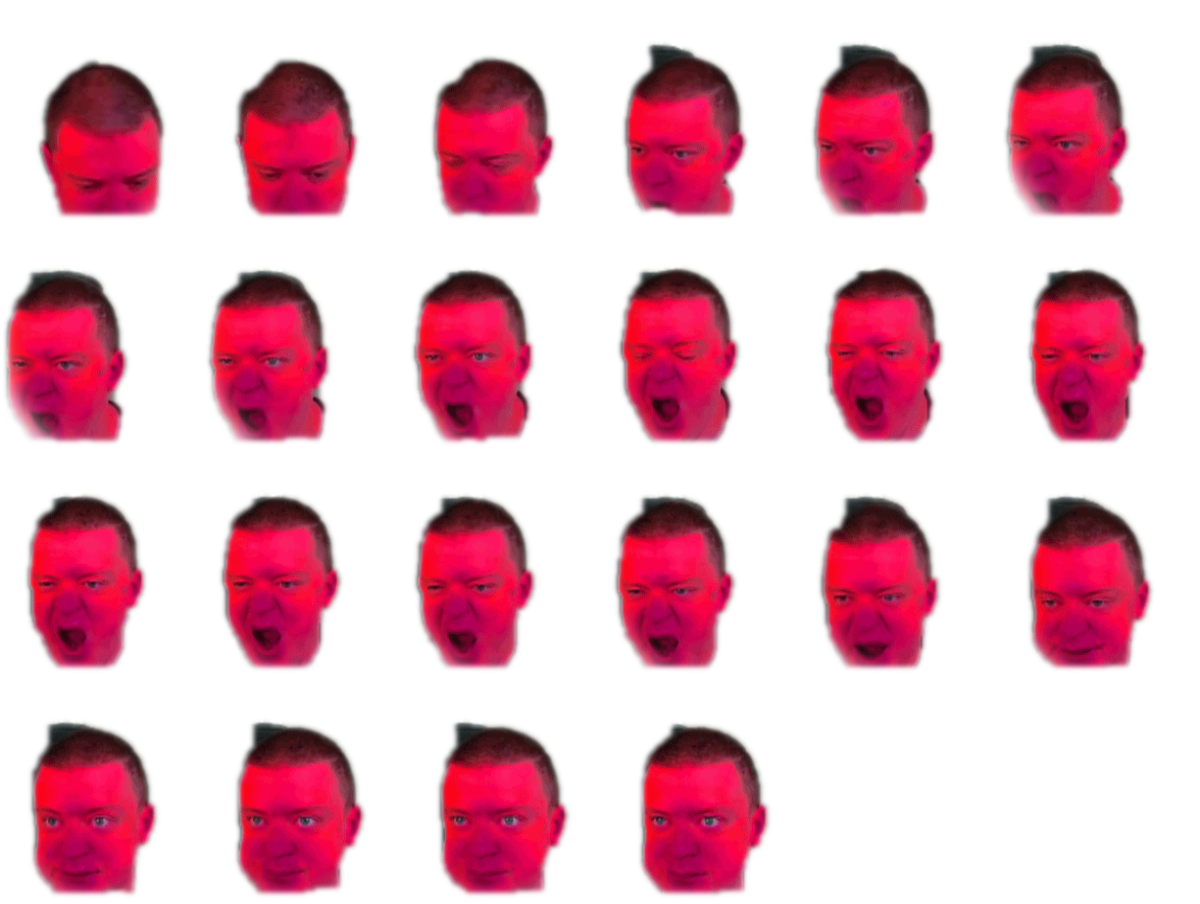
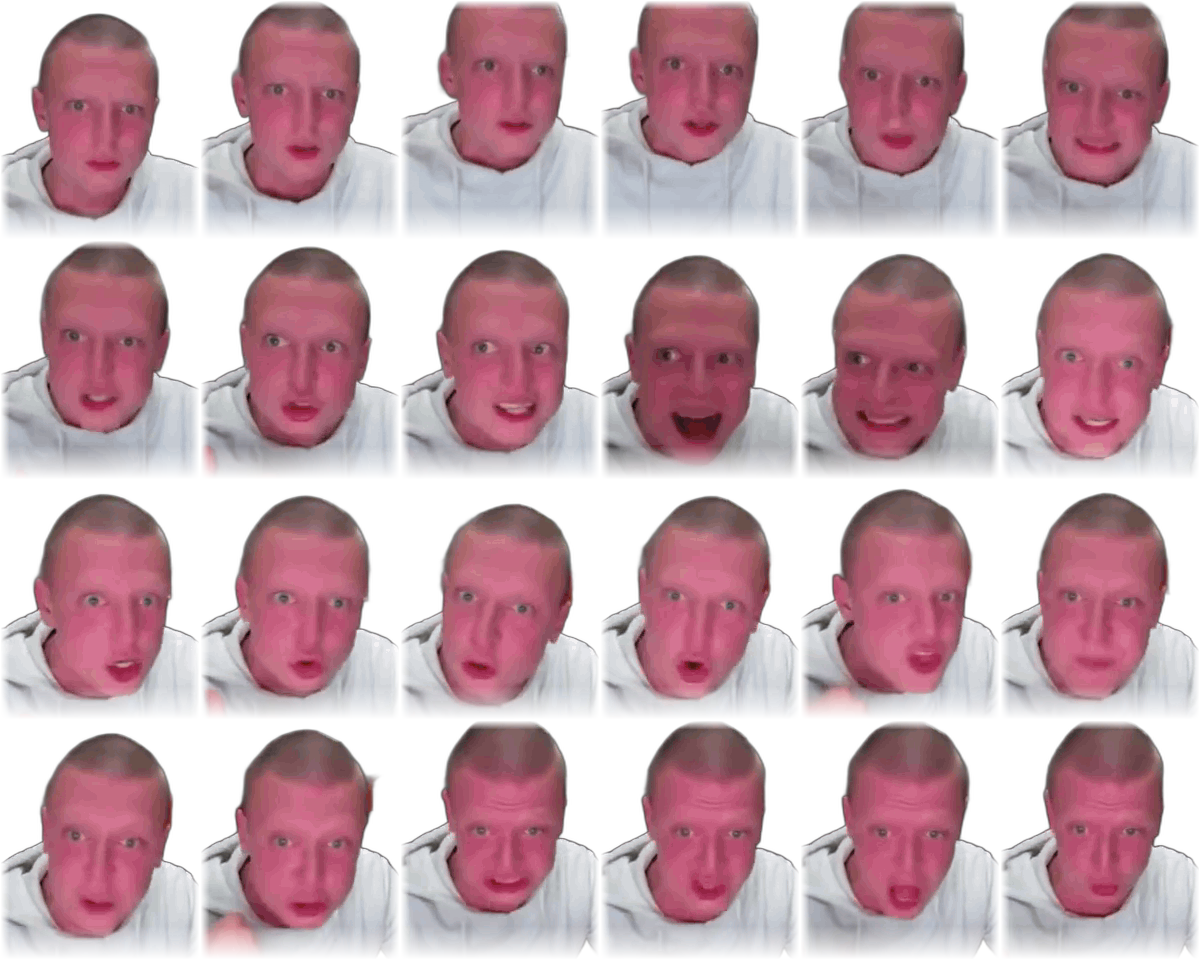
chekushka: красная рожа Меллстроя из нарезки + баланс 13–18

diff --git a/chekushka/levels.js b/chekushka/levels.js
@@ -144,4 +144,79 @@ const LEVELS = [
     hazards: [],
     fans: [{ x: 288, y: 706, r: 72, dir: { x: 0, y: -13.6 } }],
   },
+  {
+    name: 'Пивной поворот',
+    hint: 'Вентилятор вынесет вправо',
+    mel: { x: 452, y: 752, s: 0.86 },
+    bottle: { x: 172, y: 382 },
+    ropes: [{ a: { x: 172, y: 190 }, osc: { amp: 64, speed: 1.35, phase: 0 } }],
+    stars: [{ x: 300, y: 516 }, { x: 366, y: 580 }, { x: 428, y: 676 }],
+    hazards: [{ x: 172, y: 686, w: 150 }],
+    fans: [{ x: 172, y: 560, r: 76, dir: { x: 8, y: -2.6 } }],
+  },
+  {
+    name: 'Клещи',
+    hint: 'Стрелки качаются навстречу',
+    mel: { x: 430, y: 752, s: 0.86 },
+    bottle: { x: 288, y: 396 },
+    ropes: [
+      { a: { x: 196, y: 196 }, osc: { amp: 84, speed: 1.15, phase: 0 } },
+      { a: { x: 380, y: 196 }, osc: { amp: 84, speed: 1.15, phase: Math.PI } },
+    ],
+    stars: [{ x: 322, y: 486 }, { x: 372, y: 548 }, { x: 430, y: 606 }],
+    hazards: [{ x: 190, y: 686, w: 168 }],
+    fans: [],
+  },
+  {
+    name: 'Два вдоха',
+    hint: 'Первый поток подкинет, второй — донесёт',
+    mel: { x: 462, y: 752, s: 0.86 },
+    bottle: { x: 150, y: 350 },
+    ropes: [{ a: { x: 150, y: 172 }, osc: { amp: 58, speed: 1.6, phase: 0 } }],
+    stars: [{ x: 232, y: 405 }, { x: 316, y: 474 }, { x: 411, y: 662 }],
+    hazards: [{ x: 150, y: 686, w: 140 }],
+    fans: [
+      { x: 150, y: 560, r: 74, dir: { x: 4.6, y: -9.4 } },
+      { x: 330, y: 420, r: 74, dir: { x: 6.4, y: 4.2 } },
+    ],
+  },
+  {
+    name: 'Стеклодув',
+    hint: 'Режь ровно по центру',
+    mel: { x: 288, y: 752, s: 0.86 },
+    bottle: { x: 288, y: 336 },
+    ropes: [{ a: { x: 288, y: 168 }, osc: { amp: 46, speed: 1.5, phase: 0 } }],
+    stars: [{ x: 288, y: 470 }, { x: 288, y: 556 }, { x: 288, y: 636 }],
+    hazards: [{ x: 138, y: 648, w: 128 }, { x: 438, y: 648, w: 128 }],
+    fans: [],
+  },
+  {
+    name: 'Три ступени',
+    hint: 'Верёвки на разной высоте',
+    mel: { x: 448, y: 752, s: 0.86 },
+    bottle: { x: 288, y: 400 },
+    ropes: [
+      { a: { x: 152, y: 158 } },
+      { a: { x: 288, y: 214 }, osc: { amp: 62, speed: 1.25, phase: 2.1 } },
+      { a: { x: 424, y: 170 } },
+    ],
+    stars: [{ x: 370, y: 470 }, { x: 520, y: 550 }, { x: 500, y: 705 }],
+    hazards: [{ x: 148, y: 700, w: 138 }],
+    fans: [],
+  },
+  {
+    name: 'Последний звонок',
+    hint: 'Четыре верёвки, ветер и шипы',
+    mel: { x: 288, y: 752, s: 0.86 },
+    bottle: { x: 288, y: 410 },
+    ropes: [
+      { a: { x: 138, y: 176 }, osc: { amp: 62, speed: 1.35, phase: 0 } },
+      { a: { x: 236, y: 152 } },
+      { a: { x: 344, y: 152 } },
+      { a: { x: 440, y: 176 }, osc: { amp: 62, speed: 1.35, phase: Math.PI } },
+    ],
+    stars: [{ x: 270, y: 522 }, { x: 300, y: 600 }, { x: 318, y: 662 }],
+    hazards: [{ x: 132, y: 700, w: 120 }, { x: 448, y: 700, w: 120 }],
+    fans: [{ x: 288, y: 700, r: 70, dir: { x: 0, y: -12.8 } }],
+  },
 ];

diff --git a/chekushka/art.js b/chekushka/art.js
@@ -648,7 +648,7 @@ const Art = (() => {
   const MEME_SHEETS = {
     eat: { key: 'eat', cols: 6, rows: 5, fw: 200, fh: 154, count: 30, fps: 14, k: 1.92, oy: 0.6 },
     bravo: { key: 'bravo', cols: 7, rows: 6, fw: 200, fh: 175, count: 38, fps: 13, k: 1.9, oy: 0.50 },
-    red: { key: 'red', cols: 6, rows: 4, fw: 200, fh: 226, count: 22, fps: 7, k: 1.95, oy: 0.55 },
+    red: { key: 'red', cols: 6, rows: 4, fw: 200, fh: 240, count: 24, fps: 9, k: 1.3, oy: 0.63 },
   };
 
   function drawMemeSheet(ctx, x, y, s, t, name) {
@@ -665,11 +665,7 @@ const Art = (() => {
     ctx.shadowColor = 'rgba(42, 22, 6, 0.55)';
     ctx.shadowBlur = 16 * s;
     ctx.shadowOffsetY = 7 * s;
-    ctx.drawImage(
-      im,
-      col * m.fw, row * m.fh, m.fw, m.fh,
-      -dw / 2, -dh * m.oy, dw, dh,
-    );
+    ctx.drawImage(im, col * m.fw, row * m.fh, m.fw, m.fh, -dw / 2, -dh * m.oy, dw, dh);
     ctx.restore();
     return true;
   }

diff --git a/chekushka/index.html b/chekushka/index.html
@@ -4,16 +4,16 @@
 <meta charset="utf-8">
 <meta name="viewport" content="width=device-width, initial-scale=1, maximum-scale=1, user-scalable=no, viewport-fit=cover">
 <title>Чекушка для Меллстроя</title>
-<link rel="stylesheet" href="style.css?v=33">
+<link rel="stylesheet" href="style.css?v=34">
 </head>
 <body>
 <div id="stage">
   <canvas id="game"></canvas>
 </div>
-<script src="assets.js?v=33"></script>
-<script src="audio.js?v=33"></script>
-<script src="art.js?v=33"></script>
-<script src="levels.js?v=33"></script>
-<script src="game.js?v=33"></script>
+<script src="assets.js?v=34"></script>
+<script src="audio.js?v=34"></script>
+<script src="art.js?v=34"></script>
+<script src="levels.js?v=34"></script>
+<script src="game.js?v=34"></script>
 </body>
 </html>

diff --git a/chekushka/assets.js b/chekushka/assets.js
@@ -11,7 +11,7 @@ const Assets = (() => {
     bottle: 'assets/bottle.png',
     eat: 'assets/eat_sheet.png',
     bravo: 'assets/bravo_sheet.png',
-    red: 'assets/red_sheet.png',
+    red: 'assets/red_sheet.png?v=2',
     button: 'assets/button.png',
     shashlik: 'assets/shashlik.png',
     crayfish: 'assets/crayfish.png',

diff --git a/chekushka/AGENTS.md b/chekushka/AGENTS.md
@@ -27,13 +27,14 @@ git clone https://x-access-token:$GITHUB_TOKEN@github.com/Chr0mat1x/Chr0mat1x.gi
 
 ## Спрайт-листы мемных нарезок
 `assets/eat_sheet.png` (6x5, 200x154, 30 кадров), `assets/bravo_sheet.png` (7x6, 200x175, 38 кадров),
-`assets/red_sheet.png` (6x4, 200x226, 22 кадра).
+`assets/red_sheet.png` (6x4, 200x240, 24 кадра).
 Метрики лежат в `MEME_SHEETS` в `art.js`. Собираются из гифок tenor скриптом:
 зелёный фон вырезается по HSV, остаются компоненты с bbox >= 40x40,
 альфа смягчается, низ кадра гасится градиентом.
 
-У `red_sheet.png` фон не зелёный, а комнатный, поэтому там cv2.grabCut по прямоугольнику вокруг головы,
-крупнейшая компонента, пересечение с мягким эллипсом-виньеткой и blur по альфе.
+У `red_sheet.png` фон не зелёный, а комнатный, поэтому там rembg (u2net) на кадре целиком, кадрирование
+по bbox «розовой» маски лица (HSV), мягкая растушёвка краёв тайла и гашение низа градиентом.
+Источник — `/tmp/mell/v3/xzmMs_TBEW4.gif`, сборка: `/tmp/mell/red2/build_tight.py` (тайл 200x240).
 
 ## Мем «я уже красный»
 `RED_STREAK` в game.js = 3. `lose()` инкрементит `G.loseStreak` и при достижении порога ставит
@@ -41,7 +42,7 @@ git clone https://x-access-token:$GITHUB_TOKEN@github.com/Chr0mat1x/Chr0mat1x.gi
 а рисуются после оверлея, иначе гифка уходит под панель.
 
 ## Уровни
-`levels.js` — 12 уровней, координаты в логической системе 576x1024. После правки раскладки
+`levels.js` — 18 уровней, координаты в логической системе 576x1024. После правки раскладки
 проверять проходимость симулятором физики: собрать game.js в vm-песочнице с заглушками
 canvas/Assets/Art/Sfx и перебрать моменты резки, убеждаясь что уровень выигрывается и все 3 звезды
 собираемы.
